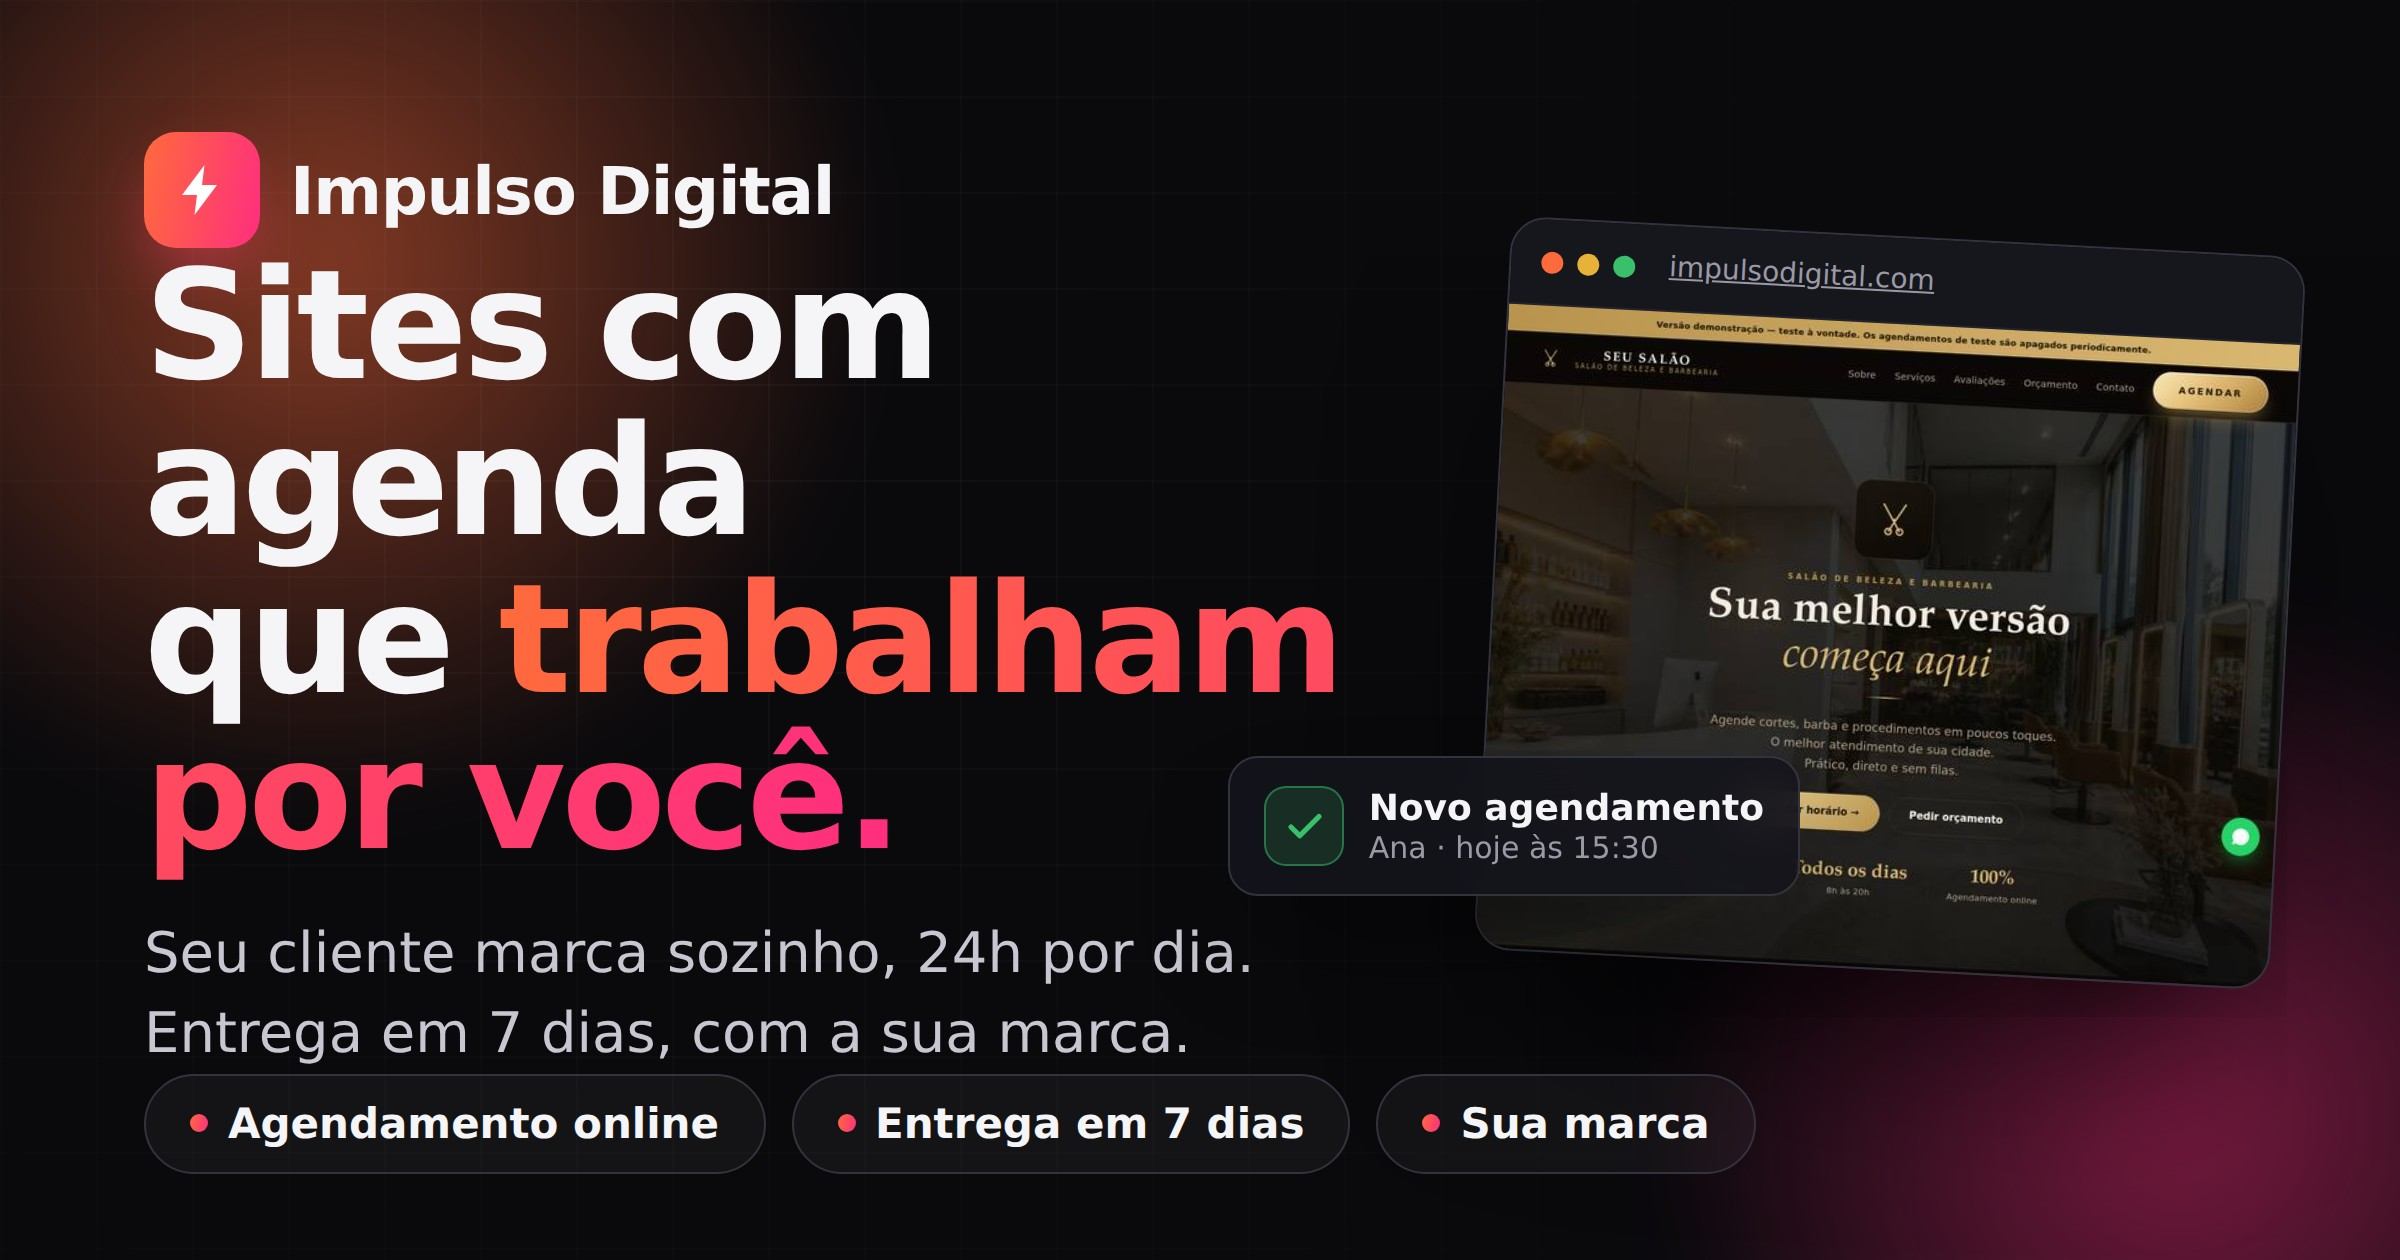
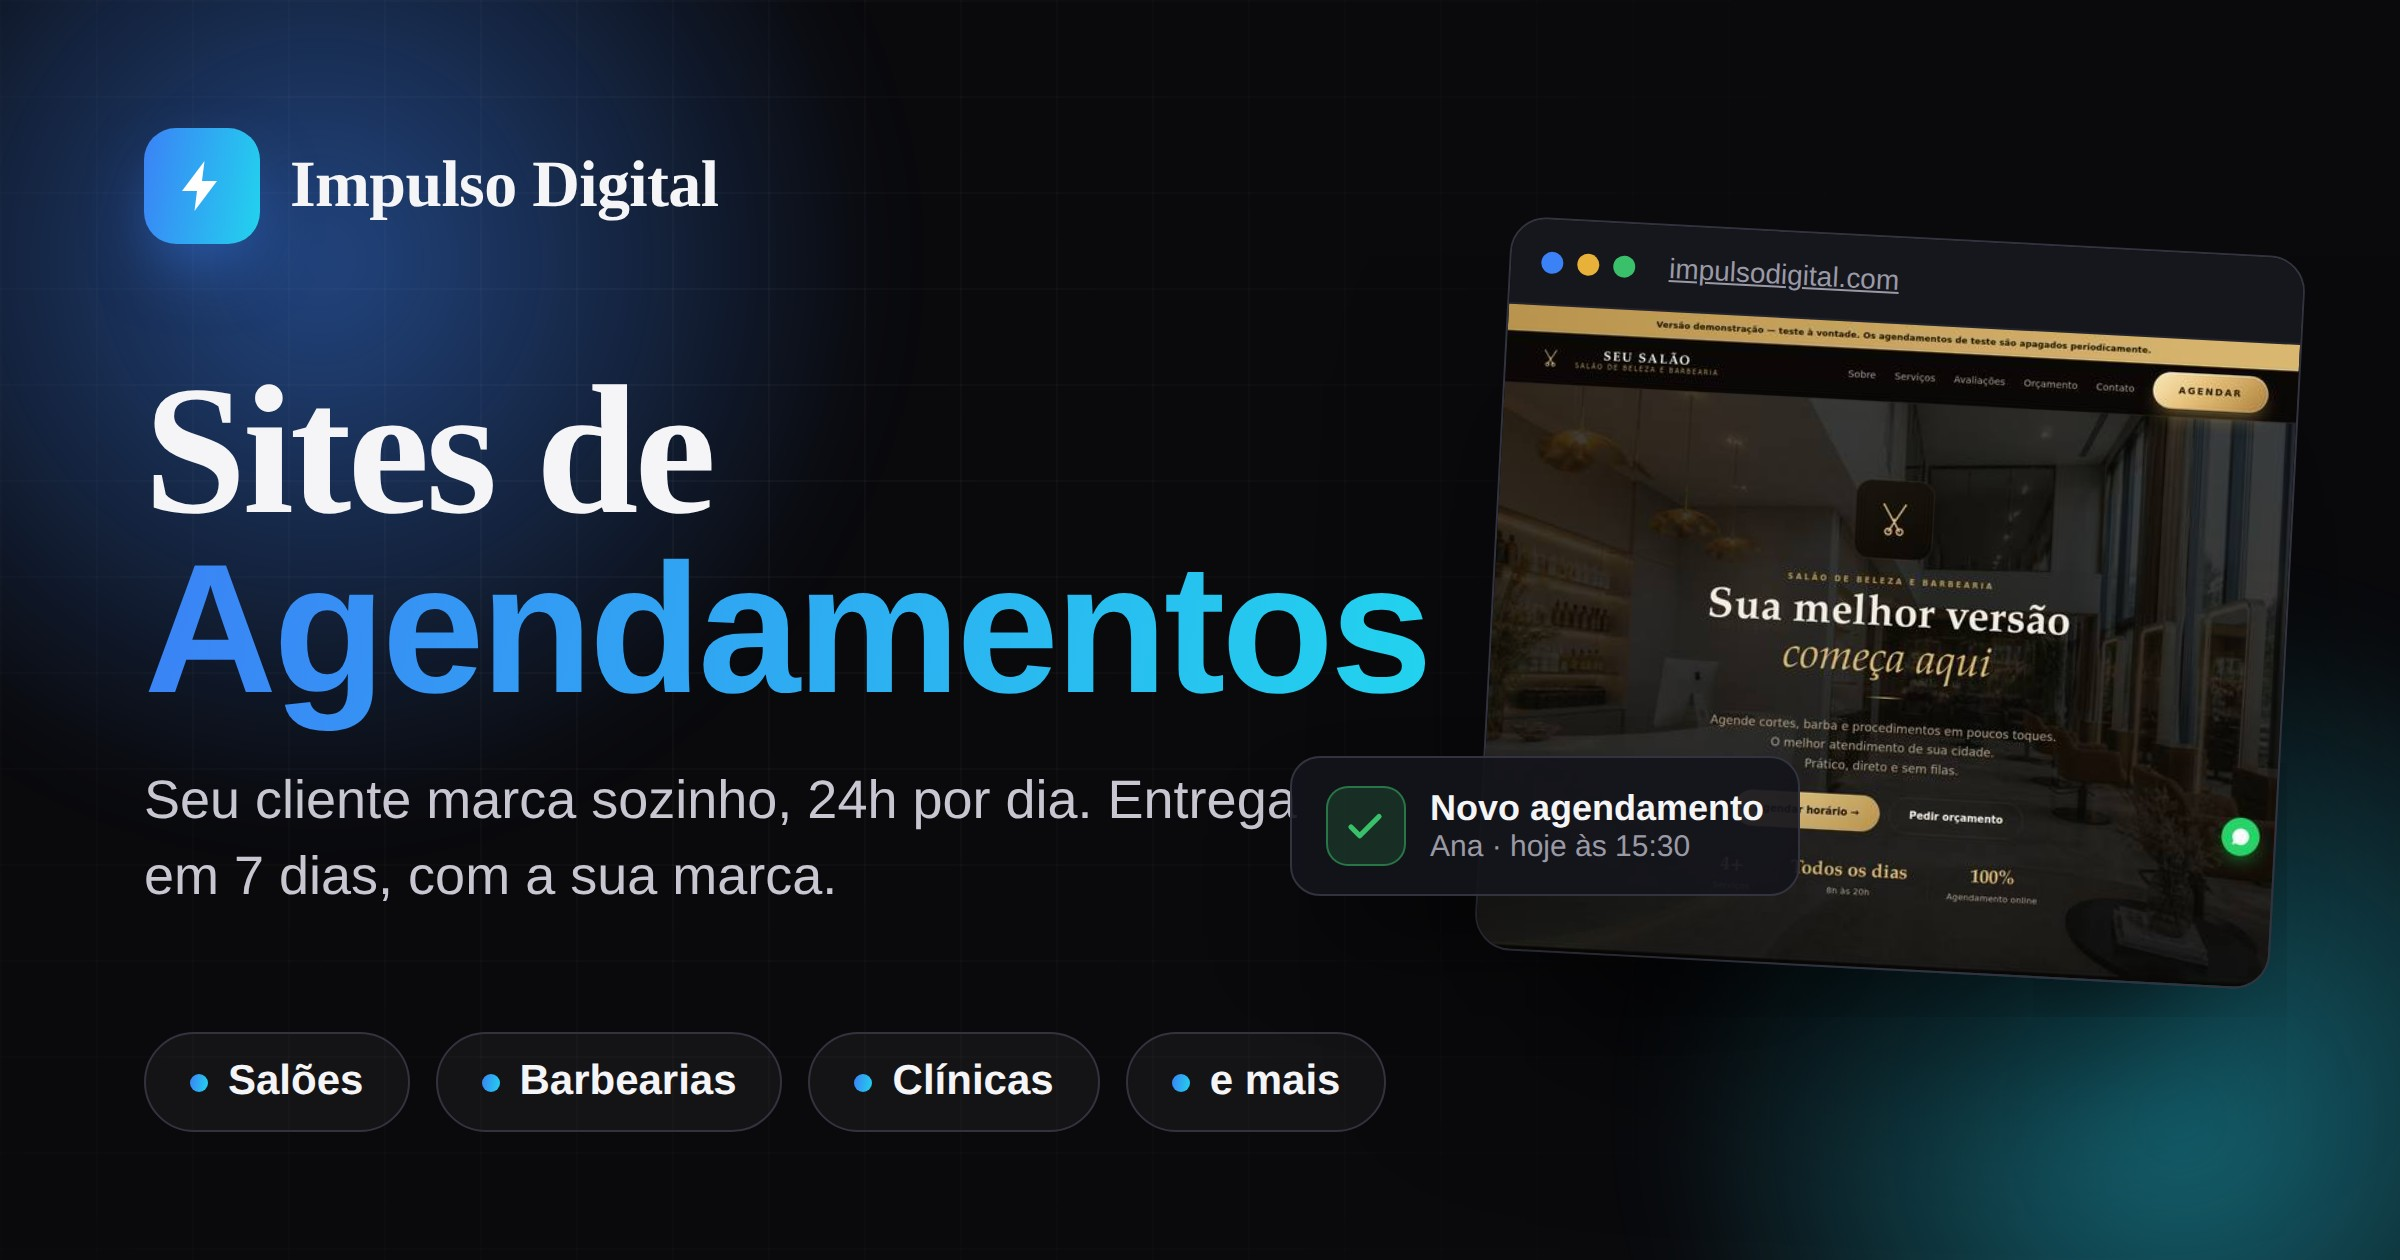
Add files via upload

diff --git a/index.html b/index.html
@@ -16,12 +16,12 @@
 <meta name="twitter:description" content="Sites profissionais com agenda que trabalha por você. Veja exemplos e peça o seu.">
 <meta name="twitter:image" content="og.jpg">
 <link rel="preconnect" href="https://fonts.googleapis.com"><link rel="preconnect" href="https://fonts.gstatic.com" crossorigin>
-<link rel="stylesheet" href="https://fonts.googleapis.com/css2?family=Syne:wght@600;700;800&family=Inter:wght@400;500;600;700&display=swap">
+<link rel="stylesheet" href="https://fonts.googleapis.com/css2?family=Fraunces:opsz,wght@9..144,500..900&family=Manrope:wght@400..800&display=swap">
 <style>
   :root{--ink:#0a0a0d;--ink2:#111117;--card:#14141b;--line:#23232d;--line2:#33333f;
-    --cream:#f5f4f7;--muted:#9a99a6;--soft:#c7c6d1;--a1:#ff6a3d;--a2:#ff2e7e;
+    --cream:#f5f4f7;--muted:#9a99a6;--soft:#c7c6d1;--a1:#3b82f6;--a2:#22d3ee;
     --grad:linear-gradient(100deg,var(--a1),var(--a2));
-    --disp:'Syne',system-ui,sans-serif;--sans:'Inter',system-ui,-apple-system,sans-serif}
+    --disp:'Fraunces',Georgia,serif;--sans:'Manrope',system-ui,-apple-system,sans-serif}
   *{box-sizing:border-box;margin:0;padding:0}
   html{scroll-behavior:smooth}
   body{background:var(--ink);color:var(--cream);font-family:var(--sans);font-size:16px;line-height:1.6;-webkit-font-smoothing:antialiased;overflow-x:hidden}
@@ -32,7 +32,7 @@
   .eyebrow{font-size:.74rem;letter-spacing:.22em;text-transform:uppercase;font-weight:700;color:var(--a1)}
   .btn{display:inline-flex;align-items:center;gap:9px;font-weight:700;font-size:.98rem;padding:15px 28px;border-radius:14px;cursor:pointer;border:1px solid transparent;transition:transform .16s,box-shadow .16s,filter .16s}
   .btn svg{width:18px;height:18px}
-  .btn-a{background:var(--grad);color:#fff;box-shadow:0 16px 40px -14px rgba(255,60,110,.55)}
+  .btn-a{background:var(--grad);color:#fff;box-shadow:0 16px 40px -14px rgba(59,130,246,.5)}
   .btn-a:hover{transform:translateY(-2px);filter:brightness(1.06)}
   .btn-g{background:rgba(255,255,255,.04);color:var(--cream);border:1px solid var(--line2)}
   .btn-g:hover{border-color:var(--a1)}
@@ -42,7 +42,7 @@
   .hdr.on{border-color:var(--line)}
   .hdr .wrap{display:flex;align-items:center;justify-content:space-between;padding:15px 24px}
   .brand{display:flex;align-items:center;gap:11px;font-family:var(--disp);font-weight:800;font-size:1.16rem;letter-spacing:-.02em}
-  .brand .mk{width:40px;height:40px;border-radius:12px;background:var(--grad);display:grid;place-items:center;color:#fff;box-shadow:0 10px 26px -8px rgba(255,60,110,.6)}
+  .brand .mk{width:40px;height:40px;border-radius:12px;background:var(--grad);display:grid;place-items:center;color:#fff;box-shadow:0 10px 26px -8px rgba(59,130,246,.55)}
   .brand .mk svg{width:21px;height:21px}
   .nav{display:flex;align-items:center;gap:26px}
   .nav a.l{font-size:.92rem;color:var(--soft);font-weight:500}
@@ -54,17 +54,19 @@
   .hero{position:relative;overflow:hidden;padding:82px 0 70px}
   .aurora{position:absolute;inset:0;z-index:0;filter:blur(60px);opacity:.6}
   .aurora b{position:absolute;border-radius:50%;display:block}
-  .aurora .b1{width:520px;height:520px;background:radial-gradient(circle,rgba(255,106,61,.5),transparent 60%);left:-6%;top:-12%;animation:drift1 16s ease-in-out infinite}
-  .aurora .b2{width:460px;height:460px;background:radial-gradient(circle,rgba(255,46,126,.45),transparent 60%);right:-4%;top:6%;animation:drift2 19s ease-in-out infinite}
+  .aurora .b1{width:520px;height:520px;background:radial-gradient(circle,rgba(59,130,246,.5),transparent 60%);left:-6%;top:-12%;animation:drift1 16s ease-in-out infinite}
+  .aurora .b2{width:460px;height:460px;background:radial-gradient(circle,rgba(34,211,238,.42),transparent 60%);right:-4%;top:6%;animation:drift2 19s ease-in-out infinite}
   @keyframes drift1{0%,100%{transform:translate(0,0)}50%{transform:translate(60px,50px)}}
   @keyframes drift2{0%,100%{transform:translate(0,0)}50%{transform:translate(-50px,40px)}}
   .hero .wrap{position:relative;z-index:2}
   .hero-grid{display:grid;grid-template-columns:1.04fr .96fr;gap:52px;align-items:center}
   .hero .pill{display:inline-flex;align-items:center;gap:9px;font-size:.8rem;font-weight:700;color:var(--soft);border:1px solid var(--line2);background:rgba(255,255,255,.03);border-radius:999px;padding:9px 17px}
   .hero .pill .dot{width:8px;height:8px;border-radius:50%;background:var(--grad)}
-  .hero h1{font-size:clamp(2.5rem,5.4vw,4.4rem);margin:22px 0 0;letter-spacing:-.03em}
-  .rot{height:1.06em;overflow:hidden;position:relative;display:block}
-  .rot span{display:block;height:1.06em}
+  .hero h1{font-size:clamp(2.6rem,5.8vw,4.7rem);margin:22px 0 0;letter-spacing:-.02em}
+  .rotline{font-family:var(--disp);font-weight:600;font-size:clamp(1.5rem,3.1vw,2.5rem);letter-spacing:-.01em;color:var(--soft);margin-top:10px;display:flex;align-items:flex-start;gap:.32em;line-height:1.25}
+  .rotline .rot{color:var(--a1);font-weight:700}
+  .rot{height:1.25em;overflow:hidden;position:relative;display:inline-block;vertical-align:top}
+  .rot span{display:block;height:1.25em;line-height:1.25em}
   .rot .roller{display:block;transition:transform .55s cubic-bezier(.6,.05,.2,1)}
   .hero .lead{margin-top:24px;font-size:1.14rem;color:var(--soft);max-width:46ch}
   .hero-cta{display:flex;gap:13px;flex-wrap:wrap;margin-top:32px}
@@ -133,7 +135,7 @@
   .feats{display:grid;grid-template-columns:repeat(3,1fr);gap:18px;margin-top:46px}
   .feat{background:var(--card);border:1px solid var(--line);border-radius:18px;padding:26px 24px;transition:transform .2s,border-color .2s}
   .feat:hover{transform:translateY(-4px);border-color:var(--line2)}
-  .feat .fic{width:46px;height:46px;border-radius:13px;display:grid;place-items:center;background:linear-gradient(140deg,rgba(255,106,61,.16),rgba(255,46,126,.14));border:1px solid rgba(255,106,61,.28);margin-bottom:16px}
+  .feat .fic{width:46px;height:46px;border-radius:13px;display:grid;place-items:center;background:linear-gradient(140deg,rgba(59,130,246,.16),rgba(34,211,238,.14));border:1px solid rgba(59,130,246,.3);margin-bottom:16px}
   .feat .fic svg{width:23px;height:23px;color:var(--a1)}
   .feat h3{font-size:1.12rem;font-family:var(--disp);margin-bottom:7px}
   .feat p{color:var(--muted);font-size:.94rem}
@@ -201,7 +203,7 @@
   @media(max-width:860px){.trust{grid-template-columns:1fr}}
 
   /* cursor glow */
-  .glow{position:fixed;left:0;top:0;width:360px;height:360px;border-radius:50%;pointer-events:none;z-index:5;transform:translate(-50%,-50%);background:radial-gradient(circle,rgba(255,106,61,.13),transparent 60%);mix-blend-mode:screen;opacity:0;transition:opacity .4s}
+  .glow{position:fixed;left:0;top:0;width:360px;height:360px;border-radius:50%;pointer-events:none;z-index:5;transform:translate(-50%,-50%);background:radial-gradient(circle,rgba(59,130,246,.14),transparent 60%);mix-blend-mode:screen;opacity:0;transition:opacity .4s}
   /* experimente */
   .try-grid{display:grid;grid-template-columns:1.02fr .98fr;gap:40px;align-items:center}
   .try-copy h2{font-size:clamp(1.9rem,4vw,2.8rem)}
@@ -252,7 +254,8 @@
   <div class="wrap"><div class="hero-grid">
     <div class="hero-copy">
       <span class="pill"><span class="dot"></span>Criação de sites com agendamento online</span>
-      <h1>Sites com agenda<br>para <span class="rot" id="rot"><span class="roller"><span class="grad">salões.</span><span class="grad">barbearias.</span><span class="grad">clínicas.</span><span class="grad">advogados.</span><span class="grad">estúdios.</span><span class="grad">salões.</span></span></span></h1>
+      <h1>Sites de <span class="grad">Agendamentos</span></h1>
+      <div class="rotline">para <span class="rot" id="rot"><span class="roller"><span>salões</span><span>barbearias</span><span>clínicas</span><span>advogados</span><span>estúdios</span><span>salões</span></span></span></div>
       <p class="lead">Seu cliente marca sozinho, 24h por dia. Você recebe tudo organizado, com a sua marca — e um site que impressiona. Entrega em 7 dias.</p>
       <div class="hero-cta">
         <a class="btn btn-a" href="https://wa.me/5514997617954?text=Ol%C3%A1%21%20Vi%20o%20site%20da%20Impulso%20Digital%20e%20quero%20um%20site%20com%20agenda%20pro%20meu%20neg%C3%B3cio." target="_blank" rel="noopener">Quero meu site
@@ -458,7 +461,7 @@
   // rotator
   var roller=document.querySelector('#rot .roller'), i=0, n=6;
   if(!matchMedia('(prefers-reduced-motion: reduce)').matches){
-    setInterval(function(){ i++; roller.style.transform='translateY(-'+(i*1.06)+'em)';
+    setInterval(function(){ i++; roller.style.transform='translateY(-'+(i*1.25)+'em)';
       if(i===n-1){ setTimeout(function(){ roller.style.transition='none'; roller.style.transform='translateY(0)'; i=0; requestAnimationFrame(function(){requestAnimationFrame(function(){roller.style.transition='';});}); },560); }
     }, 1900);
   }
